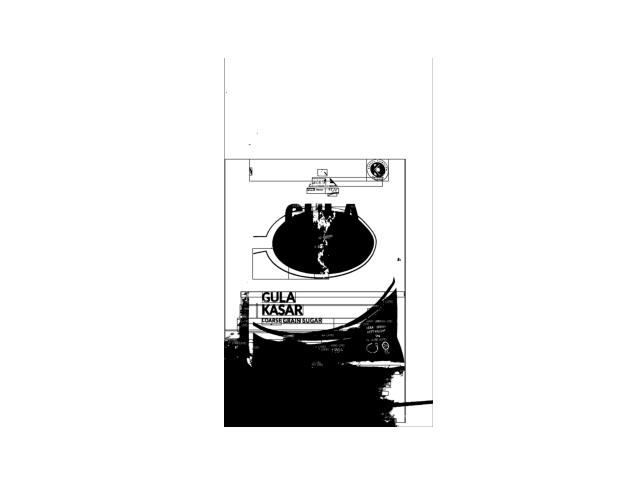
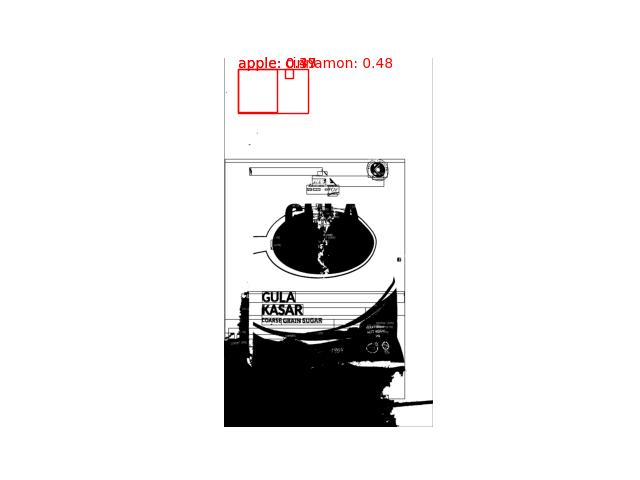
detection testing update

diff --git a/server/object_detection_classification/threshold_testing.py b/server/object_detection_classification/threshold_testing.py
@@ -149,15 +149,19 @@ def classify_rois(model, rois_list, class_list, classification_score_threshold, 
                 # Resize ROI to (224, 224) dimensions
                 resized_roi = cv2.resize(roi, (224, 224))
                 # Preprocess resized ROI
+                # Preprocess resized ROI using ResNet50 preprocess_input function
                 preprocessed_roi = preprocess_input(np.array([resized_roi]))
 
-            # Predict class probabilities for the ROI
-            predictions = model.predict(preprocessed_roi)
+            # Data generator for the single ROI
+            data_generator = ImageDataGenerator(preprocessing_function=None)
+            roi_generator = data_generator.flow(
+                x=preprocessed_roi,
+                batch_size=1,
+                shuffle=False
+            )
 
-            top_indices = np.argsort(predictions)[0, ::-1][:5]
-
-            top_predictions = [(class_list[idx], predictions[0, idx]) for idx in top_indices]
-            print(f"Top predictions for ROI {i}: {top_predictions}")
+            # Predict the ROI using the model
+            predictions = model.predict(roi_generator)
 
             for j, prediction in enumerate(predictions):
                 # Get top 5 class indices with highest confidence

diff --git a/server/text_detection/detect_text.py b/server/text_detection/detect_text.py
@@ -24,7 +24,7 @@ def preprocess_image(image):
     # Sharpen the image
     sharpened_image = np.uint8(np.clip(blurred_image - 0.5 * laplacian, 0, 255))
     # Increase brightness of the image
-    sharpened_image = cv2.convertScaleAbs(sharpened_image, alpha=1.5, beta=0)
+    sharpened_image = cv2.convertScaleAbs(resized_image, alpha=1.5, beta=0)
     # Perform otsu thresholding to get binary image
     _, binary_image = cv2.threshold(sharpened_image, 0, 255, cv2.THRESH_BINARY + cv2.THRESH_OTSU)    
     
@@ -100,10 +100,7 @@ def get_text_detection(image_path):
 
     # Load the image into a numpy array
     image_np = np.array(image)
-
-    # Save the image
-    image.save('text_detection/results/original_image_3.jpg')
-
+   
     # Read the image
     original_image = cv2.cvtColor(image_np, cv2.COLOR_RGB2BGR) 
     if original_image is not None:

diff --git a/server/object_detection_classification/object_detection_classification.py b/server/object_detection_classification/object_detection_classification.py
@@ -226,7 +226,7 @@ def detect_and_classify(image_path):
     detection_score_threshold = 0.2
 
     # Confidence score threshold for classification
-    classification_score_threshold = 0.2
+    classification_score_threshold = 0.25
 
     print('Running inference for {}... '.format(image_path), end='')
     # Load image into numpy array
